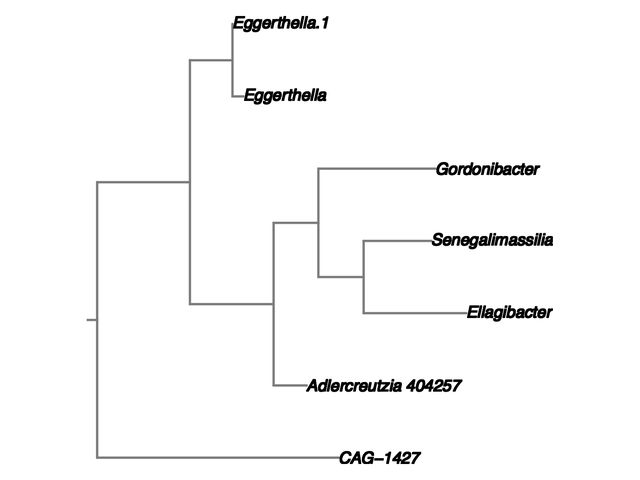
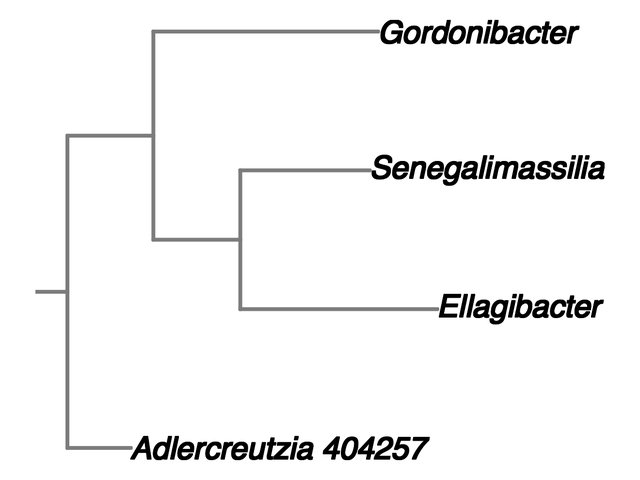
Show a four-tip subtree on the phylogeny card
The full ten-tip tree scaled to 3.9px labels in the 132px slot; the
smaller subtree reads at 5.1px with heavier strokes.

Changed region(s): [[0.0625, 0.0312, 0.9688, 0.9688]]

diff --git a/research.md b/research.md
@@ -47,7 +47,7 @@ layout: homepage
   </div>
 
   <div class="pub">
-    <div class="pub-thumb"><img src="./assets/img/papers/phylogeny-selection.png" alt="Selected local subtree of phylogenetically related genera" loading="lazy"></div>
+    <div class="pub-thumb"><img src="./assets/img/papers/phylogeny-selection.png" alt="Selected local subtree: Gordonibacter, Senegalimassilia, Ellagibacter, Adlercreutzia" loading="lazy"></div>
     <div class="pub-body">
       <h3><a href="https://shuang-jie.github.io/files/SJ-PJ6.pdf">Phylogeny-Guided Selection of Microbiome Features using Bayesian Prevalence-Aware Multinomial Logit Normal Regression</a></h3>
       <p class="pub-authors">Zhu, Z., Zhang, S., Tang, X., &amp; Zhang, L. (2026+)</p>
